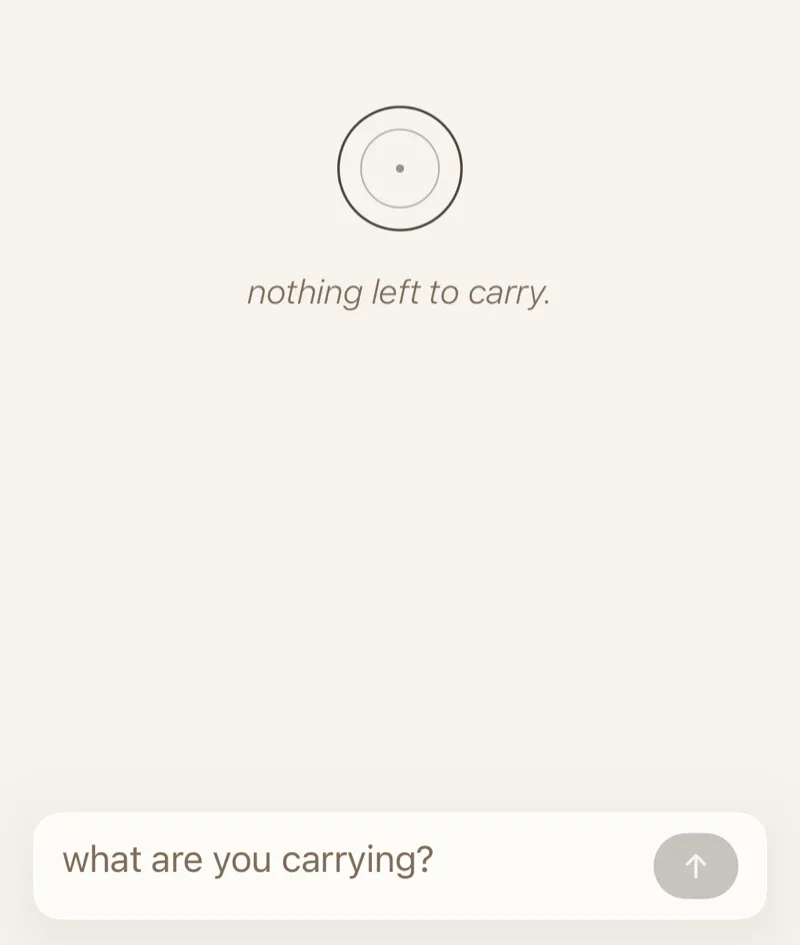
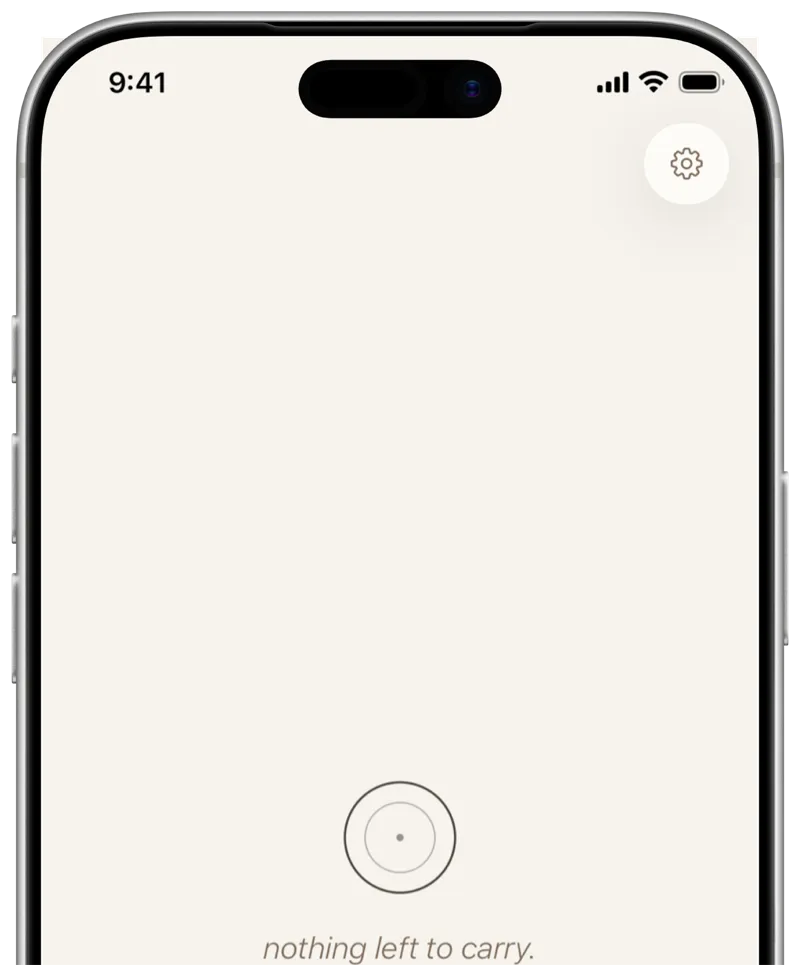
site: put the mechanic cards back in a phone
Bezel-free, the crops had nothing to read as. The app's paper is #F2EFE9 and
the card under it is #f5f5f7, so a bare screenshot with only a soft shadow
dissolved into the card and looked like a smudge rather than a screen — worse
once the three were the same height and the eye had nothing to tell them apart
by.

The bezel came off originally because it spends width: the screen is 89.7% of
the framed image, so the same card renders the note text about a pixel smaller.
That was decisive against the old 440pt capture at default type. Against the
390pt/XXL capture it is not — ~10.5px, still above the floor — and it buys back
the thing that made the section read.

site-card-frame.swift composites a capture into the bezel's measured cutout and
cuts it off part way down the screen, so the phone runs past the bottom of the
card instead of sitting in it whole. That is what keeps the card its old height:
a whole phone at this width is ~500px tall and drags the status-bar-to-keyboard
dead space back with it. The cut is one number shared by all three cards, since
the moment two of them disagree their screenshots stop lining up.

write-full-* and empty-full-* join notes-* as committed crop sources — the
script used to crop those two in place, which left nothing to composite from
and would have meant a simulator run for every framing change.

Known: the captures are an iPhone 17e and the bezel is a 17 Pro Max. The cutout
[…]

diff --git a/index.html b/index.html
@@ -396,7 +396,7 @@
                 <source srcset="screenshots/write-dark.webp" type="image/webp" media="(prefers-color-scheme: dark)" data-scheme="dark">
                 <source srcset="screenshots/write-dark.png" media="(prefers-color-scheme: dark)" data-scheme="dark">
                 <source srcset="screenshots/write-light.webp" type="image/webp">
-                <img src="screenshots/write-light.png" class="device-shot" width="800" height="945" loading="lazy" decoding="async"
+                <img src="screenshots/write-light.png" class="device-shot" width="800" height="965" loading="lazy" decoding="async"
                      alt="The pensieve capture bar with a thought being written">
               </picture>
             </div>
@@ -412,7 +412,7 @@
                 <source srcset="screenshots/fade-dark.webp" type="image/webp" media="(prefers-color-scheme: dark)" data-scheme="dark">
                 <source srcset="screenshots/fade-dark.png" media="(prefers-color-scheme: dark)" data-scheme="dark">
                 <source srcset="screenshots/fade-light.webp" type="image/webp">
-                <img src="screenshots/fade-light.png" class="device-shot" width="800" height="945" loading="lazy" decoding="async"
+                <img src="screenshots/fade-light.png" class="device-shot" width="800" height="965" loading="lazy" decoding="async"
                      alt="The pensieve notes list, with older notes fading toward transparency">
               </picture>
             </div>
@@ -428,7 +428,7 @@
                 <source srcset="screenshots/empty-dark.webp" type="image/webp" media="(prefers-color-scheme: dark)" data-scheme="dark">
                 <source srcset="screenshots/empty-dark.png" media="(prefers-color-scheme: dark)" data-scheme="dark">
                 <source srcset="screenshots/empty-light.webp" type="image/webp">
-                <img src="screenshots/empty-light.png" class="device-shot" width="800" height="945" loading="lazy" decoding="async"
+                <img src="screenshots/empty-light.png" class="device-shot" width="800" height="965" loading="lazy" decoding="async"
                      alt="The pensieve empty state after a note is released, reading “Nothing left to carry.”">
               </picture>
             </div>

diff --git a/style.css b/style.css
@@ -371,9 +371,19 @@ html[data-theme] .theme-toggle { display: inline-flex; }
    440pt-wide capture shown at 170px rendered the note text at ~6px. Cropped
    and bezel-free the same card fits a ~245px-wide image, which is what sets
    the text size — width, not the crop itself, is the whole mechanism. */
+/* The framed card image is cut off part way down the phone, so it has to run
+   to the card's bottom edge — stopped short by the card's own padding it reads
+   as a photo of a phone with its bottom sliced off, floating in a box, rather
+   than as a device carrying on past the card. The step's other padding stays. */
+.mechanic-step--with-screen { padding-bottom: 0; }
 .phone-frame--small {
   width: 100%;
-  margin-top: 4px;
+  /* auto, not a fixed gap: the three cards are stretched to a common height by
+     the grid, and this is a flex column, so the slack collects under the last
+     child. With a fixed top margin the phone stopped short of the card's floor
+     and read as a photo of a device with its bottom sliced off. Pushed down
+     instead, it runs off the card, which is the whole point of cutting it. */
+  margin-top: auto;
   aspect-ratio: auto;
   /* img-only subtree — Safari renders the filter here without complaint.
      Kept: without a shadow the flat crops look pasted onto the card. */
